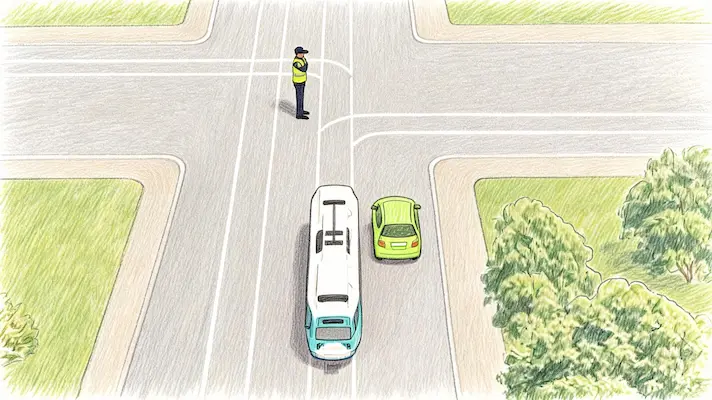
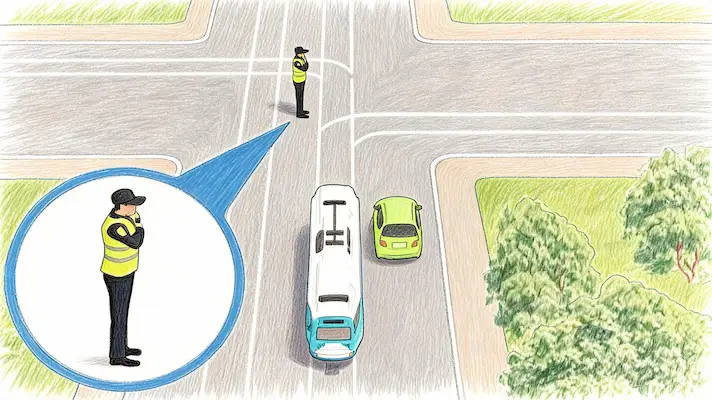
Оновлення

diff --git a/data.js b/data.js
@@ -1623,7 +1623,39 @@ window.pdrData = {
             ruleText: "<b>Пункт 8.3</b><br>Сигнали регулювальника мають перевагу перед сигналами світлофорів та вимогами дорожніх знаків.<br><b>Пункт 8.8 а)</b><br>При положенні рук регулювальника, коли вони витягнуті в сторони або права рука зігнута перед грудьми, нерейковим транспортним засобам з лівого і правого боків дозволено рух прямо і праворуч, а пішоходам — перехід проїзної частини.<br><b>Пункт 16.2</b><br>Повертаючи праворуч або ліворуч, водій повинен дати дорогу пішоходам, які переходять проїзну частину, на яку він повертає.",
             
             explanationText: "У даній ситуації регулювальник дозволяє рух праворуч для нерейкових транспортних засобів. Однак одночасно пішоходам дозволено перехід проїзної частини, на яку Ви повертаєте. Тому водій зобов’язаний дати дорогу пішоходам, щоб завершити маневр безпечно. Правильна відповідь — \"Дозволено, даючи дорогу пішоходам.\"."
+        },
+
+
+
+
+
+
+
+        // --- 8.2 РОЗДІЛ
+
+        // 8.2.1 ПИТАННЯ ---  
+
+
+
+        {
+            id: 79,
+            topicId: "topic_8.2",
+            text: "8.2.1. У якому напрямку Вам дозволено рух?",
+            image: "img-quest/8.2.1.webp",
+            options: [
+                "У напрямку A.",
+                "У напрямках A і B.",
+                "У напрямках Б і B.",
+                "У напрямках A, Б і B.",
+                "У напрямку B."
+            ],
+            correctIndex: 0, // Правильна відповідь №1 (індекс 0)
+            
+            ruleText: "<b>Пункт 8.2</b><br>Тимчасові дорожні знаки мають перевагу над постійними.<br><b>Знак 4.1 «Рух прямо»</b><br>Дозволяє рух тільки прямо.<br><b>Знак 5.29 «Місце для розвороту»</b><br>Позначає місце для розвороту, але його дія перекривається тимчасовим знаком.",
+            
+            explanationText: "У даній ситуації встановлено два знаки: постійний 5.29 «Місце для розвороту» та тимчасовий 4.1 «Рух прямо» на жовтому фоні. Згідно з пунктом 8.2 ПДР, тимчасові знаки мають перевагу над постійними. Тому водій повинен виконати вимогу знака 4.1 і рухатися тільки прямо — у напрямку А. Правильна відповідь — \"У напрямку A.\"."
         }
+        
         
         
         
